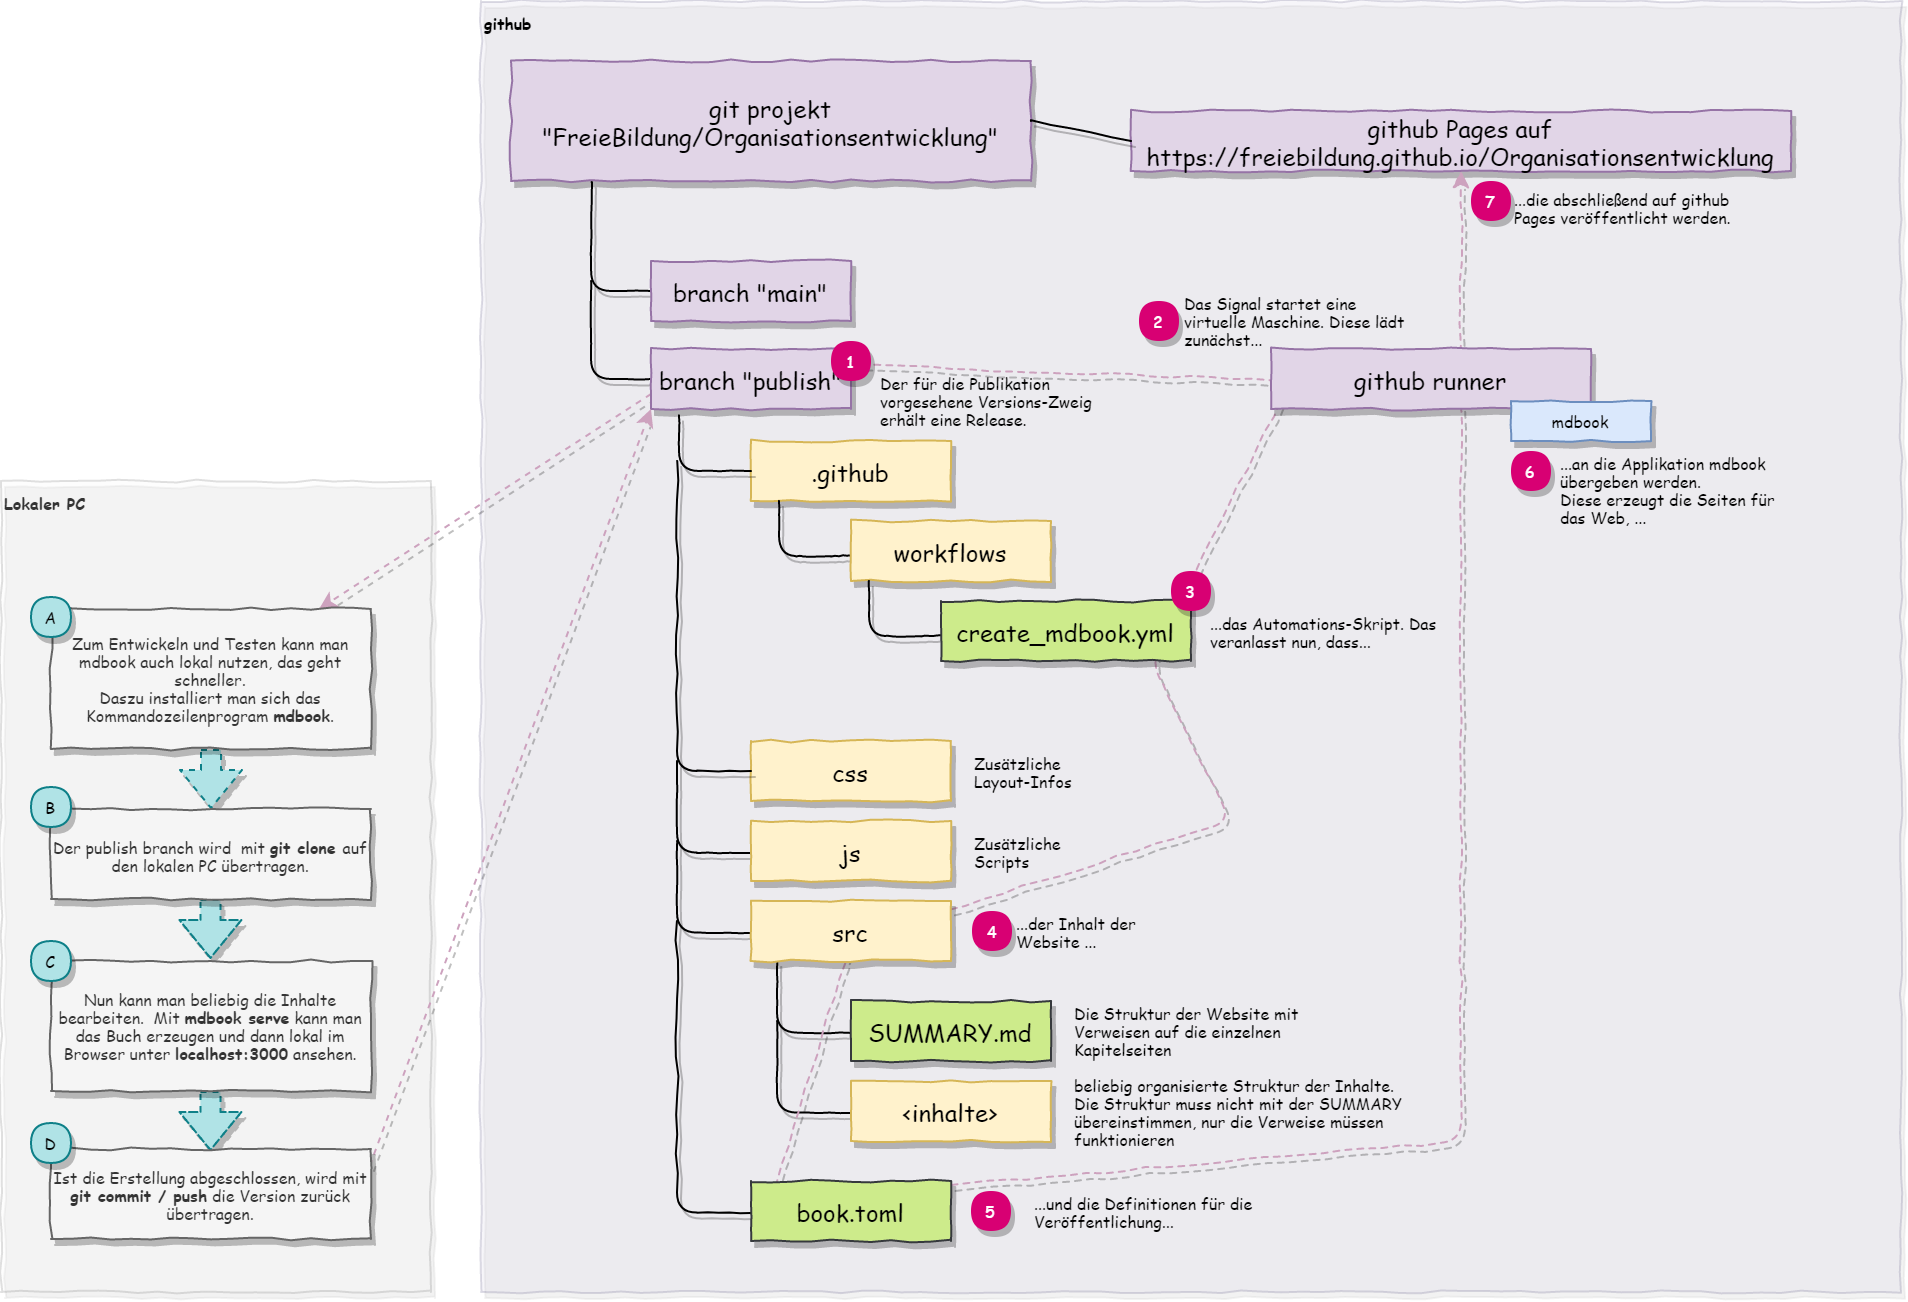
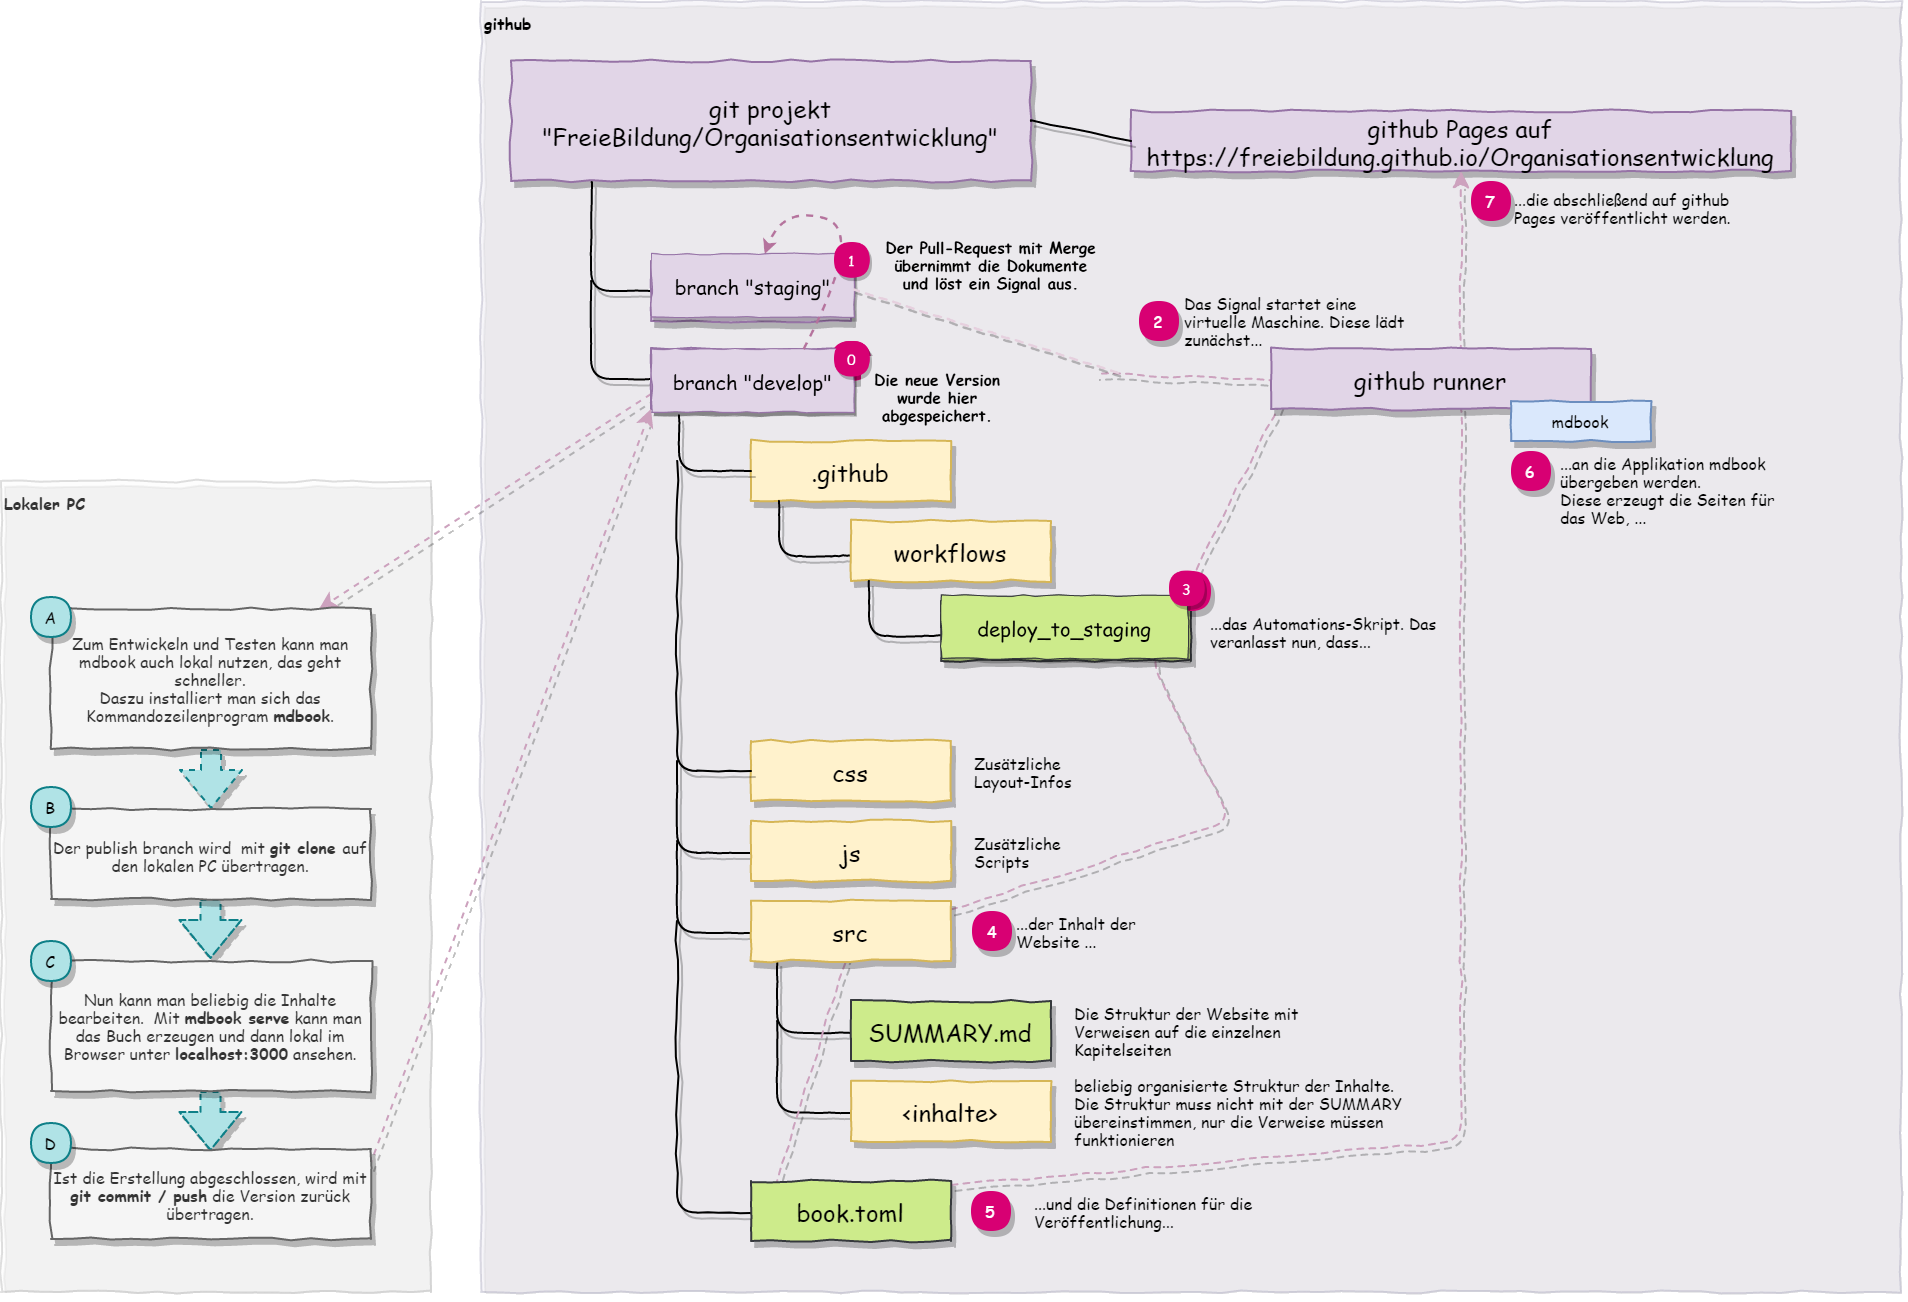
publikation

Changed region(s): [[0.3401, 0.2765, 0.5875, 0.3379], [0.3401, 0.1843, 0.5875, 0.2458], [0.4948, 0.4301, 0.6184, 0.5223]]

diff --git a/src/it/informationsmanagement/publikation.md b/src/it/informationsmanagement/publikation.md
@@ -2,25 +2,62 @@
 
 ## Website
 
-Das Handbuch zur Organisationsentwicklung wird weitgehend automatisch publiziert. Dazu dient die versionierte Ablage aller Inhalte im github Projekt-Repository. Sobald eine neue Version hinzugefügt wird, startet automatisch der Publikationsprozess und nach wenigen Minuten ist die neue Seite im Web unter [https://freiebildung.github.io/Organisationsentwicklung](https://freiebildung.github.io/Organisationsentwicklung) verfügbar. 
+Das Handbuch zur Organisationsentwicklung wird weitgehend automatisch publiziert. Dazu dient die versionierte Ablage aller Inhalte im github Projekt-Repository. Zum Schreiben und schnellen Testen kann die Erzeugung auch lokal auf dem PC durchgeführt werden.
 
-Zum Schreiben und schnellen Testen kann die Erzeugung auch lokal auf dem PC durchgeführt werden.
+## Beteiligte
+* Autorin
+* Redakteurin
 
+## Der ideale Prozess
+
+### Ablauf
+
+* Autoren schreiben in Markdown und speichern im github-Repository **Organisationsentwicklung** in den Branch *develop*. Sie können lokal ihre Änderungen testen, wenn ihr System dafür eingerichtet ist.
+
+* Eine Redakteurin kann durch einen Pull-Request die letzten Änderungen von *develop* nach *staging* übernehmen (dies erfolgt über diese [Github-Seite](https://github.com/FreieBildung/Organisationsentwicklung/compare/staging...develop). Dieser Pull-Request löst eine Publikation auf die Pages des Repositories aus, so dass nun alle erstellten Änderungen auch auf einer Testseite im Internet zu sehen sind. Die Seite steht im Anschluss unter [https://freiebildung.github.io/Organisationsentwicklung/](https://freiebildung.github.io/Organisationsentwicklung/) zur Verfügung. Dieser Schritt ist optional und wird vor allem bei größeren Änderungen ohne lokale Vorprüfung empfohlen
+
+* Die verantwortliche Redakteurin kann die Seite auf die offizielle Website übernehmen. Dies erfolgt zurzeit über den manuellen Start des Produktionsworkflows "Run Workflow" [auf dieser Seite](https://github.com/FreieBildung/Organisationsentwicklung/actions/workflows/deploy_pages.yml). Dabei kann der Workflow vom Branch "develop" (ungeprüft) oder "staging" (geprüft) die Daten lesen. Das System publiziert nun automatisch nach [https://www.servicenetzwerk-freie-bildung.de](https://www.servicenetzwerk-freie-bildung.de).
+
+
+
+
+### Regelungen
+
+* Abrechnungsstichtag: der 1. des Folgemonats, ersatzweise der vorangehende letzte Arbeitstag.
+* Buchungsstichtag: der 10. des Folgemonats, ersatzweise der vorangehende letzte Arbeitstag.
+* Versandstichtag: der 15. des Folgemonats, ersatzweise der vorangehende letzte Arbeitstag.
+* Das Servicenetzwerk erstellt Kennzahlen zur Fristeneinhaltung und zur Prozesshistorie.
+* Die Buchhaltungsregeln für die Ausgangsrechnungsbuchung.
+
+### Voraussetzungen
+
+* Kostenträger pro Integrationshelfer bekannt
+* Integrationshelfer haben Zugriff auf Erfassungssoftware (ELO oder anderes Formular)
+* Die Prozessteilnehmer agieren in einer Rolle und haben jeweils Vertreter, die die Augaben fristgerecht übernehmen können.
+
+### Prozessfehler
+
+Prozessfehler führen zu einem gescheiterten Workflow oder einem unerwünschten Ergebnis auf der Website.
+Die Prozessfehler können auf der [Github-Seite zu Actions](https://github.com/FreieBildung/Organisationsentwicklung/actions) gesehen und untersucht werden. Der häufigste Fehler liegt in ungültigen Verweisen ausgehend von der SUMMARY.md Datei.
+
+### Prozesskennzahlen
+
+* Anzahl der Prüfungen
+* Anzahl der Produktionsdeployments
+* Prozessdurchlaufzeit
+* Prozesskosten
+* Fehlerquote der Produktionsdeployments
+
+### Prozessartefakte
+
+* Versionierte Dokumentation
+* Publizierte Staging-Website
+* Publizierte Produktions-Website
+
+### Prozessablauf
+
+#### Übersicht über den Publikationsprozess
+![Übersicht über den Publikationsprozess](staging.png)
+
+#### Technischer Ablauf im Detail
 ![wie das Buch entsteht](publizieren.png)
-
-## Lebenszyklus-Prozess der Dokumentation
-
-### Schreiben
-
-Autoren schreiben im github-Repository **Organisationsentwicklung** in den Branch *develop*. Sie können  lokal ihre Änderungen testen.
-
-### Prüfen
-
-Ein Redakteur kann durch einen Pull-Request die letzten Änderungen von *develop* nach *staging* übernehmen. Dieser Pull-Request löst eine Publikation auf die Pages des Repositories aus, so dass nun alle erstellten Änderungen auch auf einer Testseite im Internet zu sehen sind. Die Seite steht im Anschluss unter [https://freiebildung.github.io/Organisationsentwicklung/](https://freiebildung.github.io/Organisationsentwicklung/) zur Verfügung.
-
-### Freigeben
-
-Wenn die Änderungen auf der Testseite zufriedenstellend sind, kann der verantwortliche Redakteur die Seite auf die offizielle Website übernehmen. Dies erfolgt mit...
-
-https://github.com/FreieBildung/Organisationsentwicklung/compare/staging...develop
-
